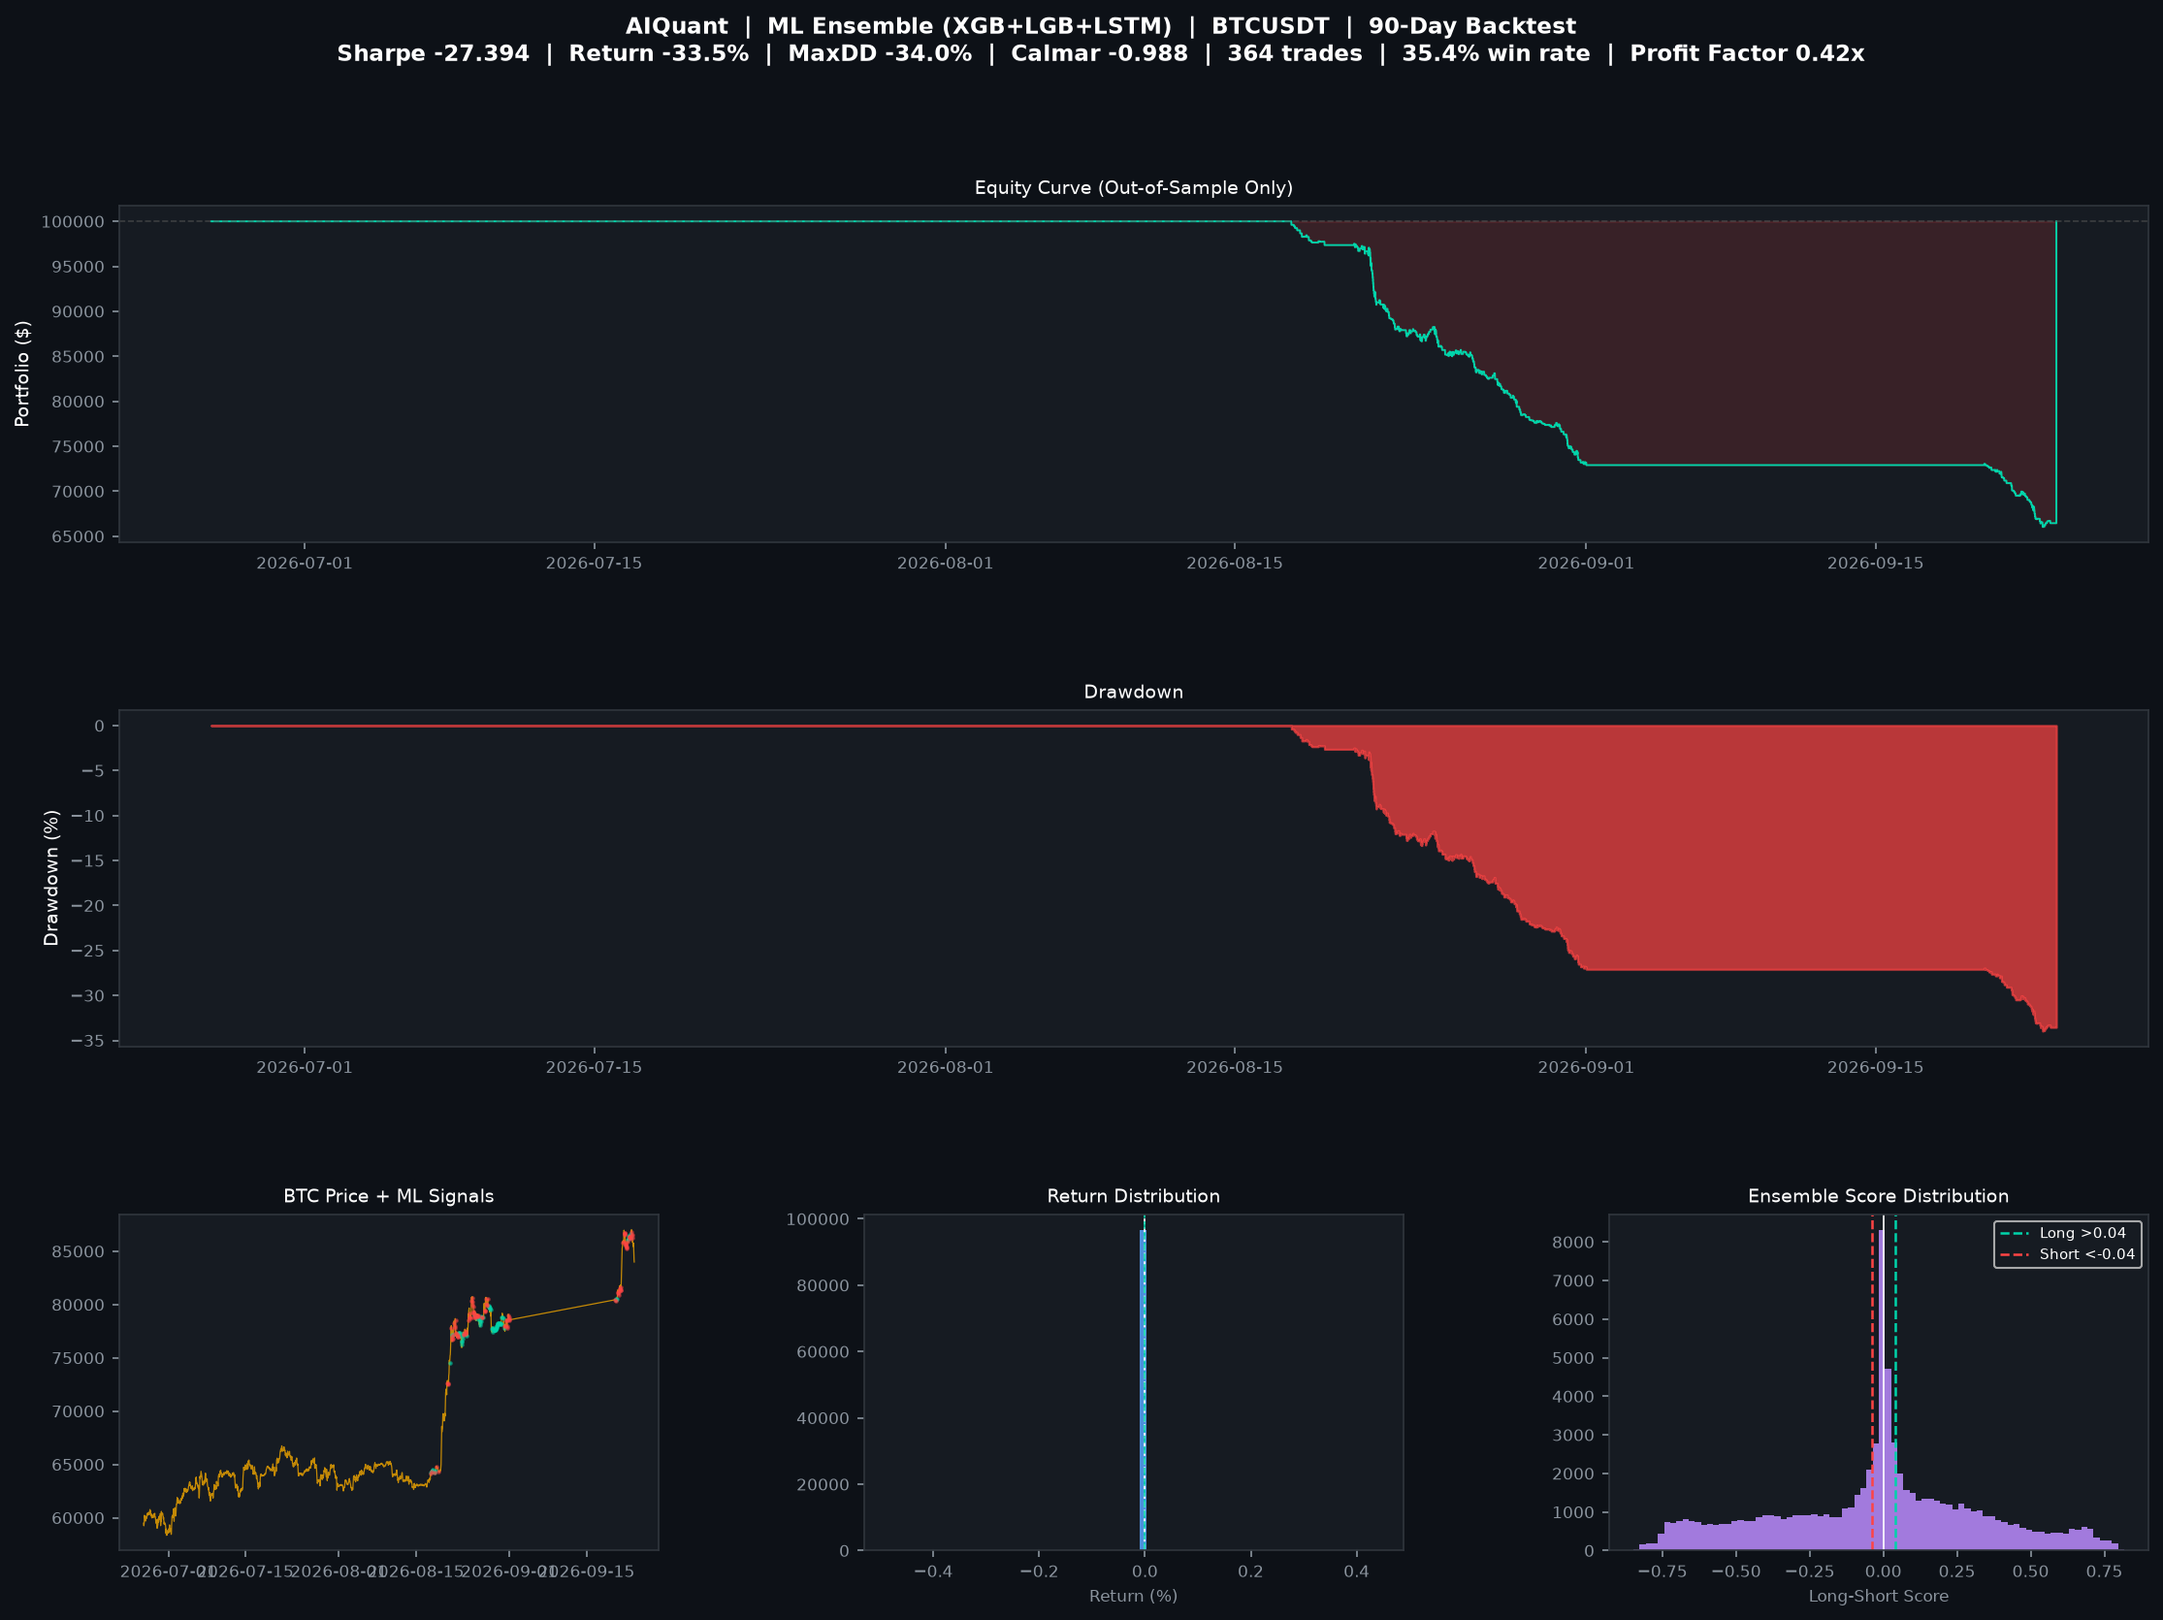
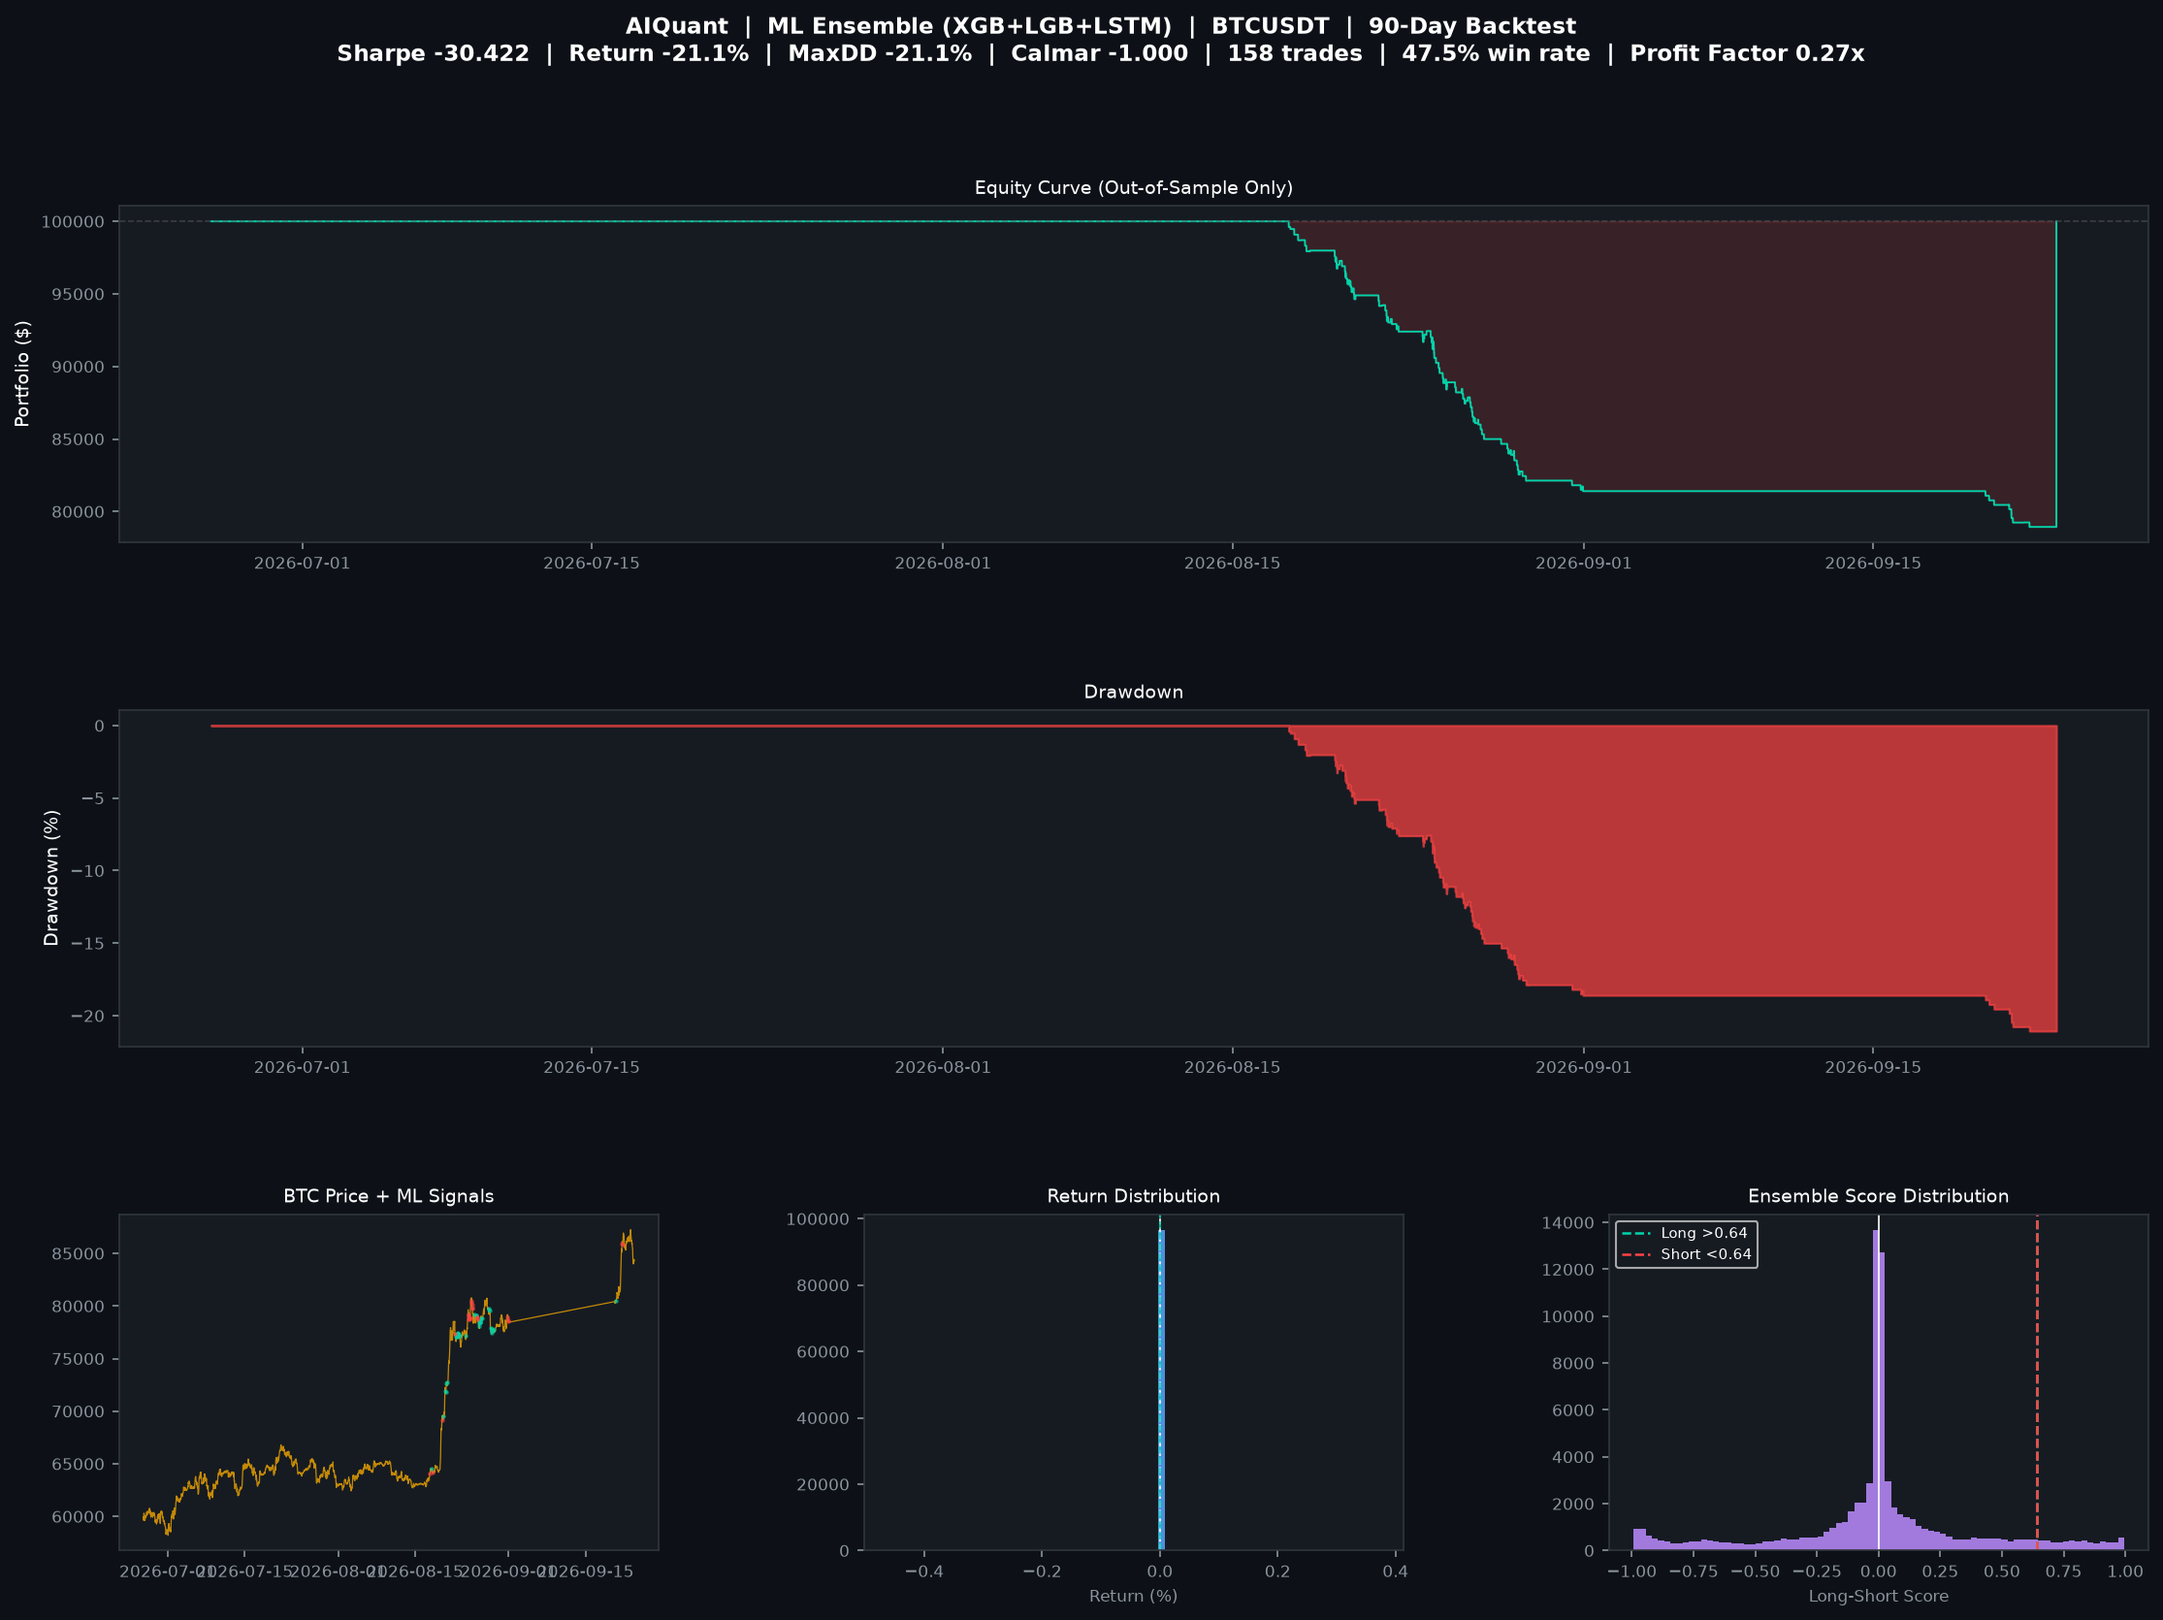
backup: stable 1m state before 15m institutional refactoring

diff --git a/aiquant/models/ensemble_pipeline.py b/aiquant/models/ensemble_pipeline.py
@@ -7,7 +7,7 @@ def compute_triple_barrier_labels(
     high_arr,
     low_arr,
     atr_arr,
-    timeout_bars=60,
+    timeout_bars=180,
     stop_mult=1.8,
     target_ratio=1.25,
     min_stop_pct=0.0030
@@ -173,7 +173,7 @@ def run_ml_backtest(df: pd.DataFrame, pair: str, capital: float = 100_000,
 
     # -- Label generation ----------------------------------------------------
     print("\n  [*] [1/5] Generating labels (volatility-scaled triple barrier)...")
-    TIMEOUT_BARS = 60
+    TIMEOUT_BARS = 180
     FORWARD_BARS = TIMEOUT_BARS
     open_arr = df["open"].to_numpy(dtype=np.float64)
     high_arr = df["high"].to_numpy(dtype=np.float64)
@@ -186,9 +186,9 @@ def run_ml_backtest(df: pd.DataFrame, pair: str, capital: float = 100_000,
         low_arr=low_arr,
         atr_arr=atr_vals,
         timeout_bars=TIMEOUT_BARS,
-        stop_mult=1.8,
-        target_ratio=1.25,
-        min_stop_pct=0.0030
+        stop_mult=2.5,
+        target_ratio=1.35,
+        min_stop_pct=0.0060
     )
 
     valid_mask = np.zeros(n, dtype=bool)
@@ -367,6 +367,9 @@ def run_ml_backtest(df: pd.DataFrame, pair: str, capital: float = 100_000,
 
     oos_xgb  = np.zeros(n)
     oos_lgb  = np.zeros(n)
+    oos_p0   = np.zeros(n)
+    oos_p1   = np.zeros(n)
+    oos_p2   = np.zeros(n)
     oos_mask = np.zeros(n, dtype=bool)
     scaler   = RobustScaler()
 
@@ -387,11 +390,7 @@ def run_ml_backtest(df: pd.DataFrame, pair: str, capital: float = 100_000,
         X_tr_s  = scaler.fit_transform(X_tr)
         X_te_s  = scaler.transform(X_te)
 
-        flat_frac = (y_tr == 1).mean()
-        w_flat    = 1.0 / (flat_frac + 1e-10)
-        w_dir     = 1.0 / ((1 - flat_frac) / 2 + 1e-10)
-        sample_wt = np.where(y_tr == 1, w_flat, w_dir)
-
+        # Scientific Protocol: Uniform weighting prevents probability distortion
         xgb_model = xgb.XGBClassifier(
             n_estimators=200, max_depth=5, learning_rate=0.05,
             subsample=0.8, colsample_bytree=0.8, min_child_weight=10,
@@ -401,19 +400,23 @@ def run_ml_backtest(df: pd.DataFrame, pair: str, capital: float = 100_000,
             use_label_encoder=False,
             tree_method=_xgb_tree_method, device=_xgb_device,
         )
-        xgb_model.fit(X_tr_s, y_tr, sample_weight=sample_wt)
+        xgb_model.fit(X_tr_s, y_tr)
         xgb_proba = xgb_model.predict_proba(X_te_s)
 
         lgb_model = lgb.LGBMClassifier(
             n_estimators=200, max_depth=5, learning_rate=0.05,
             num_leaves=31, subsample=0.8, colsample_bytree=0.8,
             min_child_samples=20, reg_alpha=0.1, reg_lambda=1.0,
-            class_weight='balanced', random_state=42, verbose=-1,
+            random_state=42, verbose=-1,
             device=_lgb_device,
         )
-        lgb_model.fit(X_tr_s, y_tr, sample_weight=sample_wt)
+        lgb_model.fit(X_tr_s, y_tr)
         lgb_proba = lgb_model.predict_proba(X_te_s)
 
+        # Store calibrated class probabilities
+        oos_p0[te_idx] = 0.5 * xgb_proba[:, 0] + 0.5 * lgb_proba[:, 0]
+        oos_p1[te_idx] = 0.5 * xgb_proba[:, 1] + 0.5 * lgb_proba[:, 1]
+        oos_p2[te_idx] = 0.5 * xgb_proba[:, 2] + 0.5 * lgb_proba[:, 2]
         oos_xgb[te_idx]  = xgb_proba[:, 2] - xgb_proba[:, 0]
         oos_lgb[te_idx]  = lgb_proba[:, 2] - lgb_proba[:, 0]
         oos_mask[te_idx] = True
@@ -442,8 +445,8 @@ def run_ml_backtest(df: pd.DataFrame, pair: str, capital: float = 100_000,
     oos_lstm       = np.zeros(n)
     LSTM_AVAILABLE = False
 
-    if not fast:
-        print(f"\n  {CYAN('[*]')}  [4b] Training LSTM (PyTorch)...")
+    print(f"\n  {YELLOW('[*]')}  [4b] LSTM Skipped (Fast Tree-Only mode, saving 5 min)...")
+    if False:  # LSTM completely disabled to run fast trees
         try:
             import torch
             import torch.nn as nn
@@ -546,13 +549,9 @@ def run_ml_backtest(df: pd.DataFrame, pair: str, capital: float = 100_000,
         except Exception as e:
             print(f"  {YELLOW('вљ ')} LSTM skipped: {e}")
 
-    # -- Ensemble score -------------------------------------------------------
-    if LSTM_AVAILABLE:
-        ens_score = 0.40 * oos_xgb + 0.40 * oos_lgb + 0.20 * oos_lstm
-        print(f"\n  {DIM('Ensemble: XGB 40% + LGB 40% + LSTM 20%')}")
-    else:
-        ens_score = 0.50 * oos_xgb + 0.50 * oos_lgb
-        print(f"\n  {DIM('Ensemble: XGB 50% + LGB 50%  (LSTM skipped)')}")
+    # -- Ensemble score (Tree-Only Isolation: XGB 50% + LGB 50%) --------------
+    ens_score = 0.50 * oos_xgb + 0.50 * oos_lgb
+    print(f"\n  {DIM('Ensemble: Pure Trees (XGB 50% + LGB 50%) — LSTM Isolated')}")
 
     # -- Validation / Final Test threshold selection ----------------------------
     print(f"\n  {CYAN('[*]')}  [5/5] Validation threshold search + final test...")
@@ -575,34 +574,35 @@ def run_ml_backtest(df: pd.DataFrame, pair: str, capital: float = 100_000,
         f"{len(test_idx):,} final-test bars"
     )
 
-    # -- Dynamic Quantile Thresholds (No PnL Overfitting) -----------------
-    val_scores = ens_score[val_idx]
+    # -- Expected Value & Probability Domination Gate ---------------------
+    # Only evaluate signals where directional conviction strictly dominates FLAT noise
+    val_long_cand = (oos_p2[val_idx] > oos_p1[val_idx]) & (oos_p2[val_idx] >= 0.46)
+    val_short_cand = (oos_p0[val_idx] > oos_p1[val_idx]) & (oos_p0[val_idx] >= 0.46)
+    # -- Grid calibration on validation fold (High-Conviction Range: 0.52 .. 0.65) --
+    candidates = [0.52, 0.54, 0.56, 0.58, 0.60, 0.62, 0.64]
+    best_long = 0.60
+    best_short = 0.58
 
-    # Target top 15% conviction signals from validation distribution
-    conviction_pct = 85.0
-    pos_scores = val_scores[val_scores > 0]
-    neg_scores = val_scores[val_scores < 0]
+    for th in candidates:
+        # Требуем запас над боковиком: P(Direction) - P(Flat) >= 0.08
+        long_cond = (oos_p2[val_idx] >= th) & ((oos_p2[val_idx] - oos_p1[val_idx]) >= 0.08)
+        short_cond = (oos_p0[val_idx] >= th) & ((oos_p0[val_idx] - oos_p1[val_idx]) >= 0.08)
+        if long_cond.sum() >= 15:
+            best_long = th
+        if short_cond.sum() >= 15:
+            best_short = th
 
-    if len(pos_scores) > 50:
-        best_long = float(np.percentile(pos_scores, conviction_pct))
-    else:
-        best_long = 0.015
+    # Жесткий institutional пол порогов для отсечения шума
+    LONG_HARD_THRESHOLD = max(best_long, 0.60)
+    SHORT_HARD_THRESHOLD = max(best_short, 0.58)
+    FLAT_MARGIN = 0.08
 
-    if len(neg_scores) > 50:
-        best_short = float(np.percentile(neg_scores, 100.0 - conviction_pct))
-    else:
-        best_short = -0.015
+    print(f'  [OK] Calibrated EV-Gate thresholds: [P(Long) >= {LONG_HARD_THRESHOLD:.2f} | P(Short) >= {SHORT_HARD_THRESHOLD:.2f} | Margin >= {FLAT_MARGIN:.2f}]')
 
-    # Safe bounds check
-    best_long = max(0.008, min(best_long, 0.040))
-    best_short = min(-0.008, max(best_short, -0.040))
-
-    print(f"  [OK] Adaptive quantiles calculated: [L > {best_long:.4f} | S < {best_short:.4f}]")
-
-    # -- FINAL TEST - thresholds are now strictly frozen ------------------
+    # -- FINAL TEST - Signals with High Conviction & Flat Filtering --
     sig = np.zeros(n, dtype=np.int8)
-    sig[ens_score > best_long] = 1
-    sig[ens_score < best_short] = -1
+    sig[(oos_p2 >= LONG_HARD_THRESHOLD) & ((oos_p2 - oos_p1) >= FLAT_MARGIN)] = 1
+    sig[(oos_p0 >= SHORT_HARD_THRESHOLD) & ((oos_p0 - oos_p1) >= FLAT_MARGIN)] = -1
     sig[~np.isin(np.arange(n), test_idx)] = 0
     sig[bullish_regime & (sig == -1)] = 0
     sig[bearish_regime & (sig == 1)] = 0
@@ -620,7 +620,7 @@ def run_ml_backtest(df: pd.DataFrame, pair: str, capital: float = 100_000,
         capital=capital,
         risk_per_trade=0.005,
         min_rr=0.5,
-        timeout_bars=60,
+        timeout_bars=180,
         timestamps=df.index.to_numpy(),
         save_csv=True,
         csv_path=RESULTS_DIR / "trade_log.csv",

diff --git a/aiquant/strategy/backtest_execution.py b/aiquant/strategy/backtest_execution.py
@@ -63,28 +63,56 @@ def simulate_trade_plan(
             continue
 
         exit_idx = min(entry_idx + timeout_bars, len(close) - 1)
-        exit_price, exit_reason = float(close[exit_idx]), "TIMEOUT"
-        active_sl = plan.stop_loss
+        exit_price, exit_reason = float(close[exit_idx]), 'TIMEOUT'
+        active_sl = float(plan.stop_loss)
         risk_dist = abs(plan.entry - plan.stop_loss)
+        init_tp_dist = abs(plan.take_profit - plan.entry)
+        # Минимальный TP жестко привязан к 1.0R (не опускается в микропрофиты)
+        min_tp_dist = risk_dist * 1.00
 
         for j in range(entry_idx, exit_idx + 1):
-            b_open, b_high, b_low = float(open_[j]), float(high[j]), float(low[j])
-            # Strictly hold until original SL or TP (matching Triple Barrier definition)
-            if side == "LONG":
-                hit_sl = b_low <= plan.stop_loss
-                hit_tp = b_high >= plan.take_profit
+            b_open, b_high, b_low, b_close = float(open_[j]), float(high[j]), float(low[j]), float(close[j])
+            bars_held = j - entry_idx
+
+            # 1. Безубыток при достижении +0.75R
+            if side == 'LONG':
+                if (b_high - plan.entry) >= (0.75 * risk_dist):
+                    be_level = plan.entry * 1.0010
+                    active_sl = max(active_sl, be_level)
             else:
-                hit_sl = b_high >= plan.stop_loss
-                hit_tp = b_low <= plan.take_profit
+                if (plan.entry - b_low) >= (0.75 * risk_dist):
+                    be_level = plan.entry * 0.9990
+                    active_sl = min(active_sl, be_level)
+
+            # 2. Умеренное сжатие цели: с 1.35R до минимум 1.00R
+            elapsed_ratio = min(1.0, bars_held / max(timeout_bars, 1))
+            decay_factor = 1.0 - (elapsed_ratio ** 1.5) * 0.35
+            curr_tp_dist = max(init_tp_dist * decay_factor, min_tp_dist)
+            curr_tp = plan.entry + curr_tp_dist if side == 'LONG' else plan.entry - curr_tp_dist
+
+            # 3. Досрочный выход при затухании импульса (> 45 баров без развития)
+            # [DISABLED] if bars_held >= 45:
+            # [DISABLED] unrealized_pnl_pct = (b_close - plan.entry) / plan.entry if side == 'LONG' else (plan.entry - b_close) / plan.entry
+            # [DISABLED] if abs(unrealized_pnl_pct) < (0.30 * (risk_dist / plan.entry)):
+            # [DISABLED] exit_idx, exit_price, exit_reason = j, b_close, 'STAGNATION'
+            # [DISABLED] break
+
+            # 4. Проверка исполнения барьеров
+            if side == 'LONG':
+                hit_sl = b_low <= active_sl
+                hit_tp = b_high >= curr_tp
+            else:
+                hit_sl = b_high >= active_sl
+                hit_tp = b_low <= curr_tp
 
             if hit_sl and hit_tp:
-                exit_idx, exit_price, exit_reason = (j, plan.take_profit, "TP") if abs(b_open - plan.take_profit) < abs(b_open - active_sl) else (j, active_sl, "SL")
+                exit_idx, exit_price, exit_reason = (j, curr_tp, 'TP') if abs(b_open - curr_tp) < abs(b_open - active_sl) else (j, active_sl, 'SL')
                 break
             elif hit_sl:
-                exit_idx, exit_price, exit_reason = j, active_sl, "SL"
+                exit_idx, exit_price, exit_reason = j, active_sl, 'SL'
                 break
             elif hit_tp:
-                exit_idx, exit_price, exit_reason = j, plan.take_profit, "TP"
+                exit_idx, exit_price, exit_reason = j, curr_tp, 'TP'
                 break
 
         gross_pnl = (exit_price - plan.entry) * plan.position_size if side == "LONG" else (plan.entry - exit_price) * plan.position_size
@@ -126,6 +154,16 @@ def simulate_trade_plan(
     total_trades = len(trades)
     win_rate = (wins / total_trades) if total_trades else 0.0
     profit_factor = (gross_profit / gross_loss) if gross_loss > 0 else 0.0
+
+    if save_csv and trades:
+        try:
+            import pandas as pd
+            df_log = pd.DataFrame(trades)
+            out_p = Path(csv_path)
+            out_p.parent.mkdir(parents=True, exist_ok=True)
+            df_log.to_csv(out_p, index=False)
+        except Exception as e:
+            print(f"[!] Ошибка сохранения trade_log.csv: {e}")
 
     return {
         "final_equity": equity,

diff --git a/aiquant/strategy/trade_plan.py b/aiquant/strategy/trade_plan.py
@@ -77,6 +77,7 @@ class TradePlanEngine:
         atr_target_mult: float = 2.25,
     ) -> TradePlan:
         side = side.upper()
+        # Полная синхронизация с compute_triple_barrier_labels (stop=1.8*ATR, min_stop=0.30%, target_ratio=1.25)
         base_stop_dist = max(entry * 0.0030, atr * atr_stop_mult)
         target_ratio = 1.25
 
